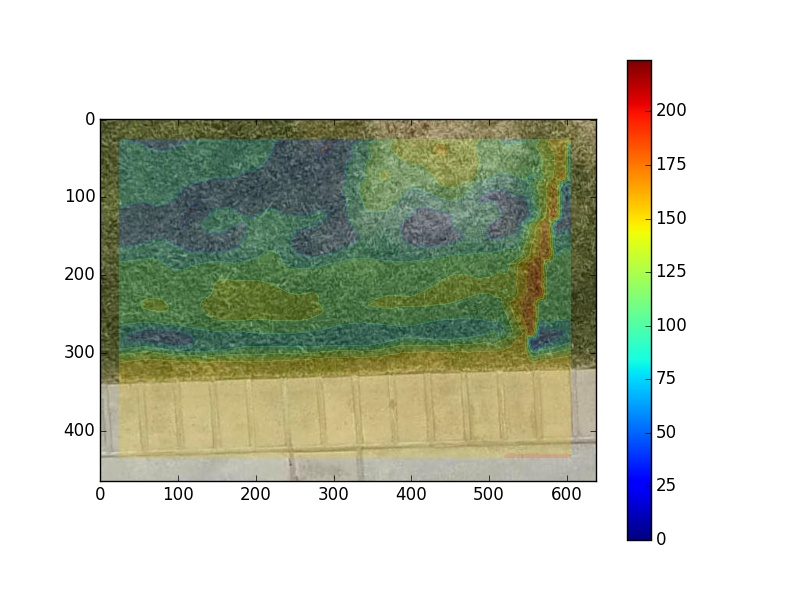
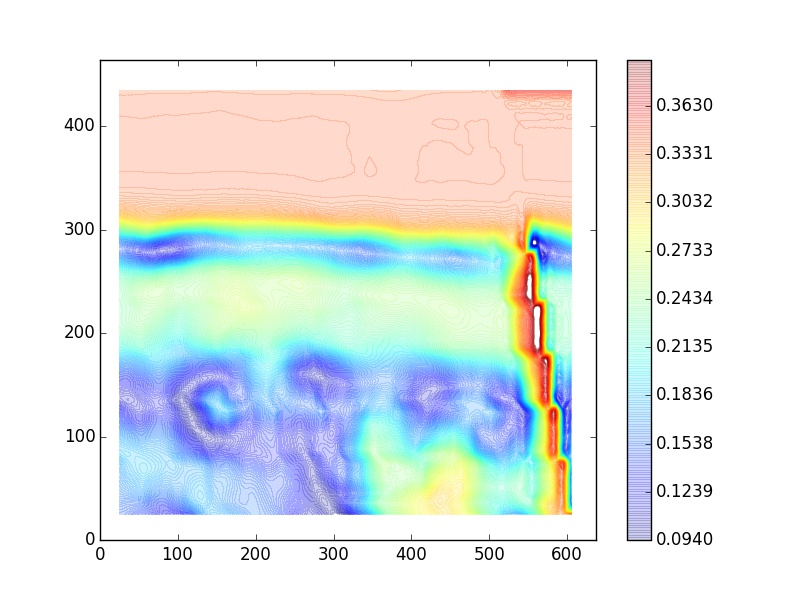
Fixed Contour Label

diff --git a/MachineLearning.py b/MachineLearning.py
@@ -78,12 +78,19 @@ def densMap(fit, metricArray, n, overlap, imageSize ):
     
     #values in the example is densities 
     
+        
+
+    
   #  print('Points is ', points) 
    # print('Densities is ', densities)
     data = griddata(points, densities, (grid_x, grid_y), method = 'cubic') #interpolate to get continuous function of points 
     #can change interpolation method
     
-    print data 
+
+    print numpy.amax(data)
+   # min_max_scaler = sklearn.preprocessing.MinMaxScaler()
+    #data_minmax = min_max_scaler.fit_transform(data) 
+    
     
     x = numpy.arange(0, width, 1) #probably won't actually need to use this part...
     y = numpy.arange(0, height, 1)
@@ -96,13 +103,17 @@ def densMap(fit, metricArray, n, overlap, imageSize ):
     
     #plt.figure(figsize = (width, height))
   #  print "Hi Cassie"
-    fig = plt.contourf(grid_x, grid_y, data, alpha = 0.2)
+    v = numpy.linspace(min(densities), max(densities), 200, endpoint=True)
+    fig = plt.contourf(grid_x, grid_y, data, levels = v, alpha = 0.2)
     
     mapIm = Image.open('FirstStitchSmall.jpeg')
     plt.imshow(mapIm)
-    
-    plt.colorbar()
-    
+    maxDens = max(densities)
+    print maxDens
+   # plt.colorbar()    
+    x = plt.colorbar(fig)
+
+
     #set(fig, 'Renderer', 'OpenGL')
     
     

diff --git a/FullProgram.py b/FullProgram.py
@@ -1,8 +1,8 @@
 from ImageProcess import * 
 from MachineLearning import *
-import os
 
-def main(): 
+
+def main():  #we never use this now. 
     imageName = 'SmallTile.jpg'
     tileSize = 50 
     
@@ -15,7 +15,8 @@ def main():
     
     
 def totalSVR(densityList, imageName,tileSize, overlap): 
-    """Does a complete run of the SVR learning algorithm. Takes in a training set of data."""
+    """Does a complete run of the SVR learning algorithm. Takes in a training set of density
+        data, an imageName in a string, the size of tile desired and an overlap as a percentage."""
     image = Image.open(imageName)
     imageSize = image.size
     
@@ -41,6 +42,9 @@ def totalSVR(densityList, imageName,tileSize, overlap):
     #Scale the metrics 
     scaledMetrics = scaler.transform(imageMetrics) ##These are the final metrics on the full image
     #print 'scaled metrics'
+    
+ 
+    
     
     print 'Image metrics computed'
     
